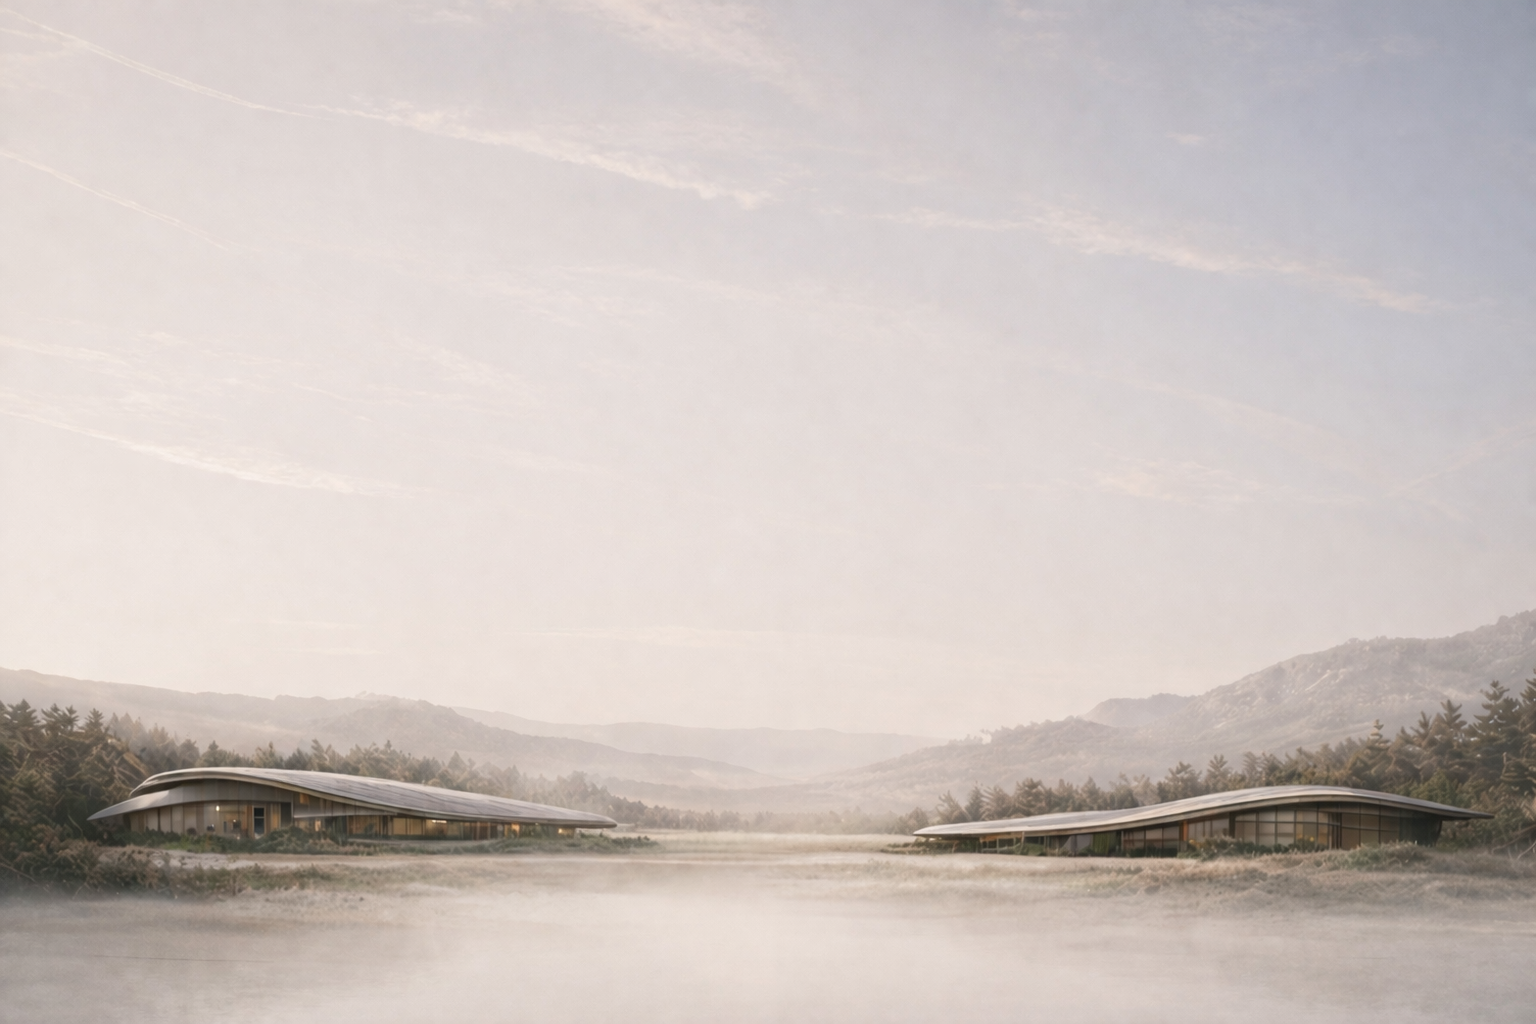
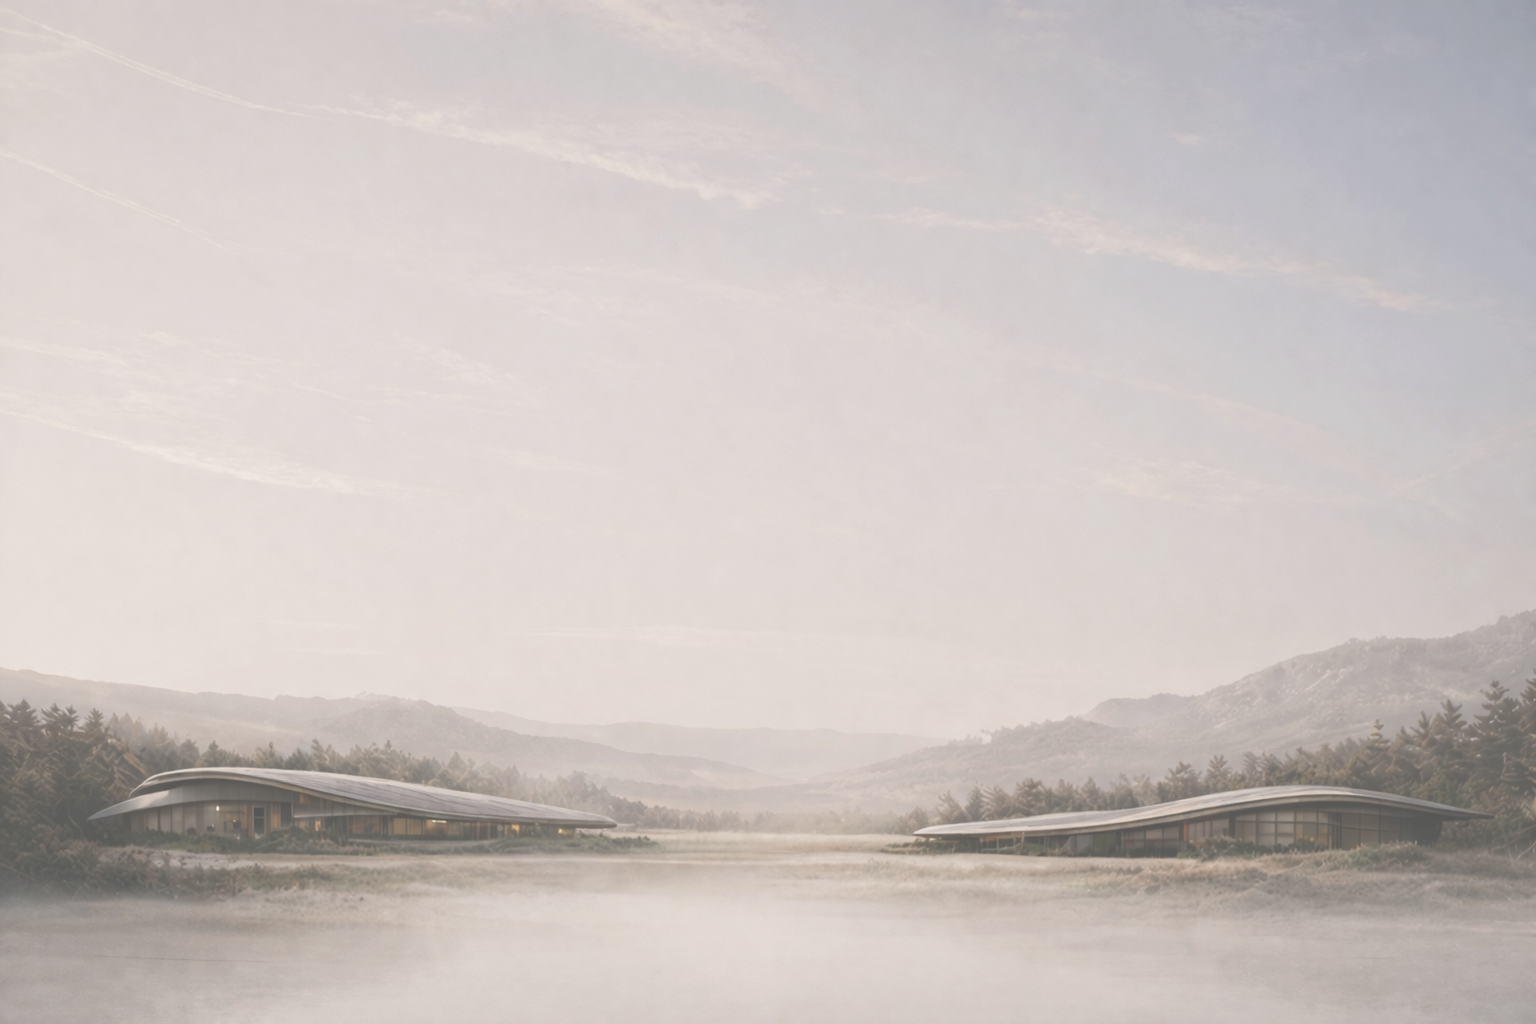
add mobile-responsive backgrounds to pages

Changed region(s): [[0.0, 0.6875, 0.375, 0.875], [0.5938, 0.6562, 1.0, 0.875]]

diff --git a/src/pages/Hero.jsx b/src/pages/Hero.jsx
@@ -2,17 +2,11 @@ import {
   PrimaryButton,
   SecondaryButton
 } from "../components/Button";
+import "./styles/Hero.css"
 
 export const Hero = () => {
   return (
-    <div
-      className="min-h-screen w-screen px-4 py-32 flex flex-col items-center justify-center"
-      style={{
-        backgroundImage: `url('${process.env.PUBLIC_URL}/hero-background.png')`,
-        backgroundSize: "cover",
-        backgroundPosition: "center"
-      }}
-    >
+    <div className="bg-hero min-h-screen w-screen px-4 py-32 flex flex-col items-center justify-center">
       <h1 className="text-3xl sm:text-4xl">Integrated Platform for High-Resilience Infrastructure</h1>
       <h4 className="mt-4 mb-14">A construction tech platform integrating additive manufacturing bio-based materials, and modular system logic.</h4>
       <div

diff --git a/src/pages/About.jsx b/src/pages/About.jsx
@@ -2,18 +2,12 @@ import {
   PrimaryButton,
   SecondaryButton
 } from "../components/Button";
+import "./styles/About.css"
 
 export const About = () => {
   return (
     <>
-      <div
-        className="min-h-[90vh] w-screen flex flex-col items-center justify-center px-4 py-32"
-        style={{
-          backgroundImage: `url('${process.env.PUBLIC_URL}/about-background-p1.png')`,
-          backgroundSize: "cover",
-          backgroundPosition: "center"
-        }}
-      >
+      <div className="bg-about min-h-[90vh] w-screen flex flex-col items-center justify-center px-4 py-32">
         <div className="text-left flex flex-col gap-8 max-w-[60rem]">
           <h1 className="text-3xl sm:text-4xl">
             A Scalable Construction Platform for Modular, Low-Carbon Infrastructure

diff --git a/src/pages/StrategicApplications.jsx b/src/pages/StrategicApplications.jsx
@@ -1,13 +1,8 @@
+import "./styles/StrategicApplications.css"
+
 export const StrategicApplications = () => {
   return (
-    <div
-      className="min-h-screen w-screen flex flex-col items-center justify-center px-4 py-32"
-      style={{
-        backgroundImage: `url('${process.env.PUBLIC_URL}/strategic-applications-background.png')`,
-        backgroundSize: "cover",
-        backgroundPosition: "center"
-      }}
-    >
+    <div className="bg-strategic-applications min-h-screen w-screen flex flex-col items-center justify-center px-4 py-32">
       <div className="flex flex-col items-center justify-center gap-12 max-w-[80rem]">
         <div className="flex flex-col gap-4">
           <h1 className="text-3xl sm:text-4xl">Strategic Applications</h1>

diff --git a/src/pages/PrototypeV1.jsx b/src/pages/PrototypeV1.jsx
@@ -1,14 +1,9 @@
+import "./styles/PrototypeV1.css"
+
 export const PrototypeV1 = () => {
   return (
     <>
-      <div
-        className="min-h-screen w-screen flex flex-col items-center justify-center text-left px-4 py-32"
-        style={{
-          backgroundImage: `url('${process.env.PUBLIC_URL}/prototype-v1-background-p1.png')`,
-          backgroundSize: "cover",
-          backgroundPosition: "center"
-        }}
-      >
+      <div className="bg-prototype-v1 min-h-screen w-screen flex flex-col items-center justify-center text-left px-4 py-32">
         <div className="flex flex-col items-start justify-center md:gap-44">
           <div className="flex flex-col gap-6">
             <h4>PROTOTYPE V1</h4>

diff --git a/src/pages/Founder.jsx b/src/pages/Founder.jsx
@@ -1,13 +1,8 @@
+import "./styles/Founder.css"
+
 export const Founder = () => {
   return (
-    <div
-      className="min-h-screen w-screen flex flex-col items-center justify-center gap-12 sm:gap-48 px-4 py-32"
-      style={{
-        backgroundImage: `url('${process.env.PUBLIC_URL}/founder-background.png')`,
-        backgroundSize: "cover",
-        backgroundPosition: "center"
-      }}
-    >
+    <div className="bg-founder min-h-screen w-screen flex flex-col items-center justify-center gap-12 sm:gap-48 px-4 py-32">
       <div className="grid grid-cols-1 md:grid-cols-[2fr_1fr] max-w-[80rem] text-left">
         <div className="flex flex-col gap-6">
           <div>

diff --git a/src/App.js b/src/App.js
@@ -13,12 +13,17 @@ function App() {
   useEffect(() => {
     const images = [
       '/hero-background-founder.png',
+      '/hero-background-founder-mobile.png',
       '/about-background-p1.png',
+      '/about-background-p1-mobile.png',
       '/about-background-p2.png',
       '/prototype-v1-background-p1.png',
+      '/prototype-v1-background-p1-mobile.png',
       '/prototype-v1-background-p2.png',
       '/strategic-applications-background.png',
+      '/strategic-applications-background-mobile.png',
       '/founder-background.png',
+      '/founder-background-mobile.png',
       '/contact-background.png'
     ];
 

diff --git a/src/components/Button.jsx b/src/components/Button.jsx
@@ -12,7 +12,7 @@ const SecondaryButton = ({
   children
 }) => {
   return (
-    <button className="bg-transparent px-4 py-2 rounded-lg border border-[#546C61] hover:border-[#829276] hover:text-[#829276]">
+    <button className="bg-white/20 backdrop-blur-sm px-4 py-2 rounded-lg border border-[#546C61] hover:border-[#829276] hover:text-[#829276]">
       {children}
     </button>
   )

diff --git a/src/pages/styles/StrategicApplications.css b/src/pages/styles/StrategicApplications.css
@@ -1,0 +1,11 @@
+.bg-strategic-applications {
+  background-image: url('../../../public/strategic-applications-background-mobile.png');
+  background-size: cover;
+  background-position: center;
+}
+
+@media (min-width: 640px) {
+  .bg-strategic-applications {
+    background-image: url('../../../public/strategic-applications-background.png');
+  }
+}

diff --git a/src/pages/styles/PrototypeV1.css b/src/pages/styles/PrototypeV1.css
@@ -1,0 +1,11 @@
+.bg-prototype-v1 {
+  background-image: url('../../../public/prototype-v1-background-p1-mobile.png');
+  background-size: cover;
+  background-position: center;
+}
+
+@media (min-width: 640px) {
+  .bg-prototype-v1 {
+    background-image: url('../../../public/prototype-v1-background-p1.png');
+  }
+}

diff --git a/src/pages/styles/Contact.css b/src/pages/styles/Contact.css
@@ -1,0 +1,11 @@
+.bg-contact {
+  background-image: url('/strategic-applications-background-mobile.png');
+  background-size: cover;
+  background-position: center;
+}
+
+@media (min-width: 640px) {
+  .bg-contact {
+    background-image: url('/strategic-applications-background.png');
+  }
+}

diff --git a/src/pages/styles/Founder.css b/src/pages/styles/Founder.css
@@ -1,0 +1,11 @@
+.bg-founder {
+  background-image: url('../../../public/founder-background-mobile.png');
+  background-size: cover;
+  background-position: center;
+}
+
+@media (min-width: 640px) {
+  .bg-founder {
+    background-image: url('../../../public/founder-background.png');
+  }
+}

diff --git a/src/pages/styles/About.css b/src/pages/styles/About.css
@@ -1,0 +1,11 @@
+.bg-about {
+  background-image: url('../../../public/about-background-p1-mobile.png');
+  background-size: cover;
+  background-position: center;
+}
+
+@media (min-width: 640px) {
+  .bg-about {
+    background-image: url('../../../public/about-background-p1.png');
+  }
+}
